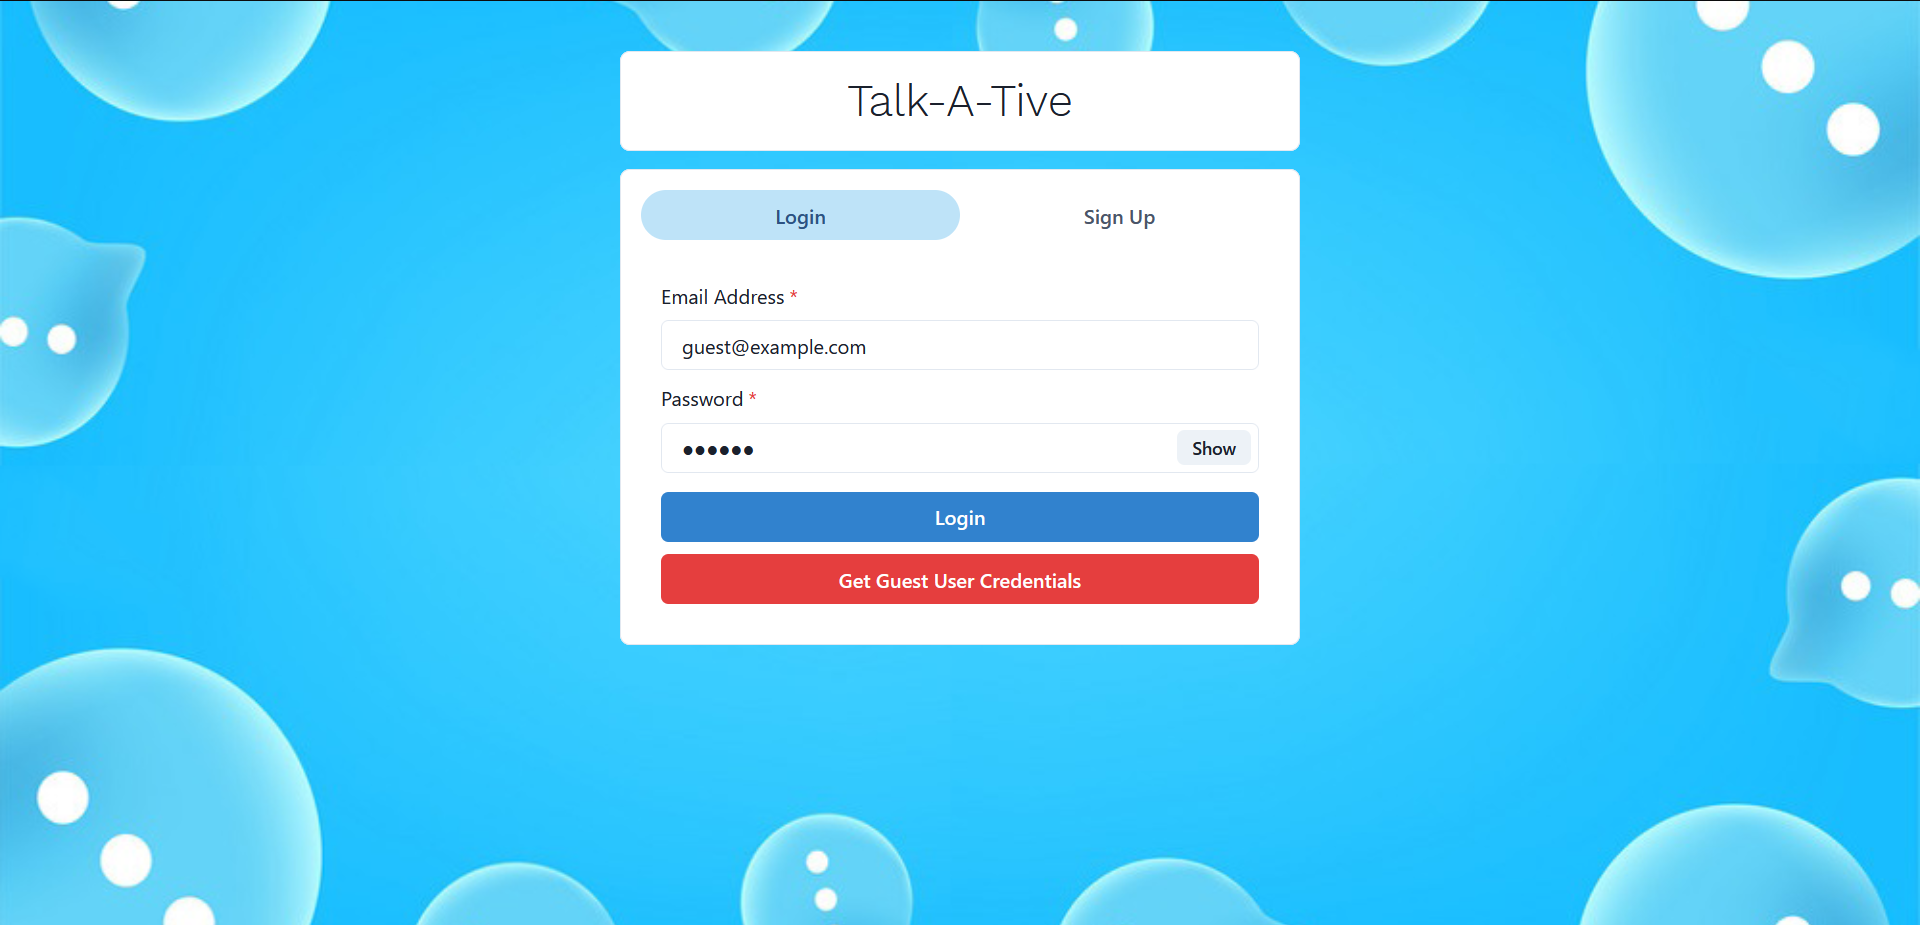
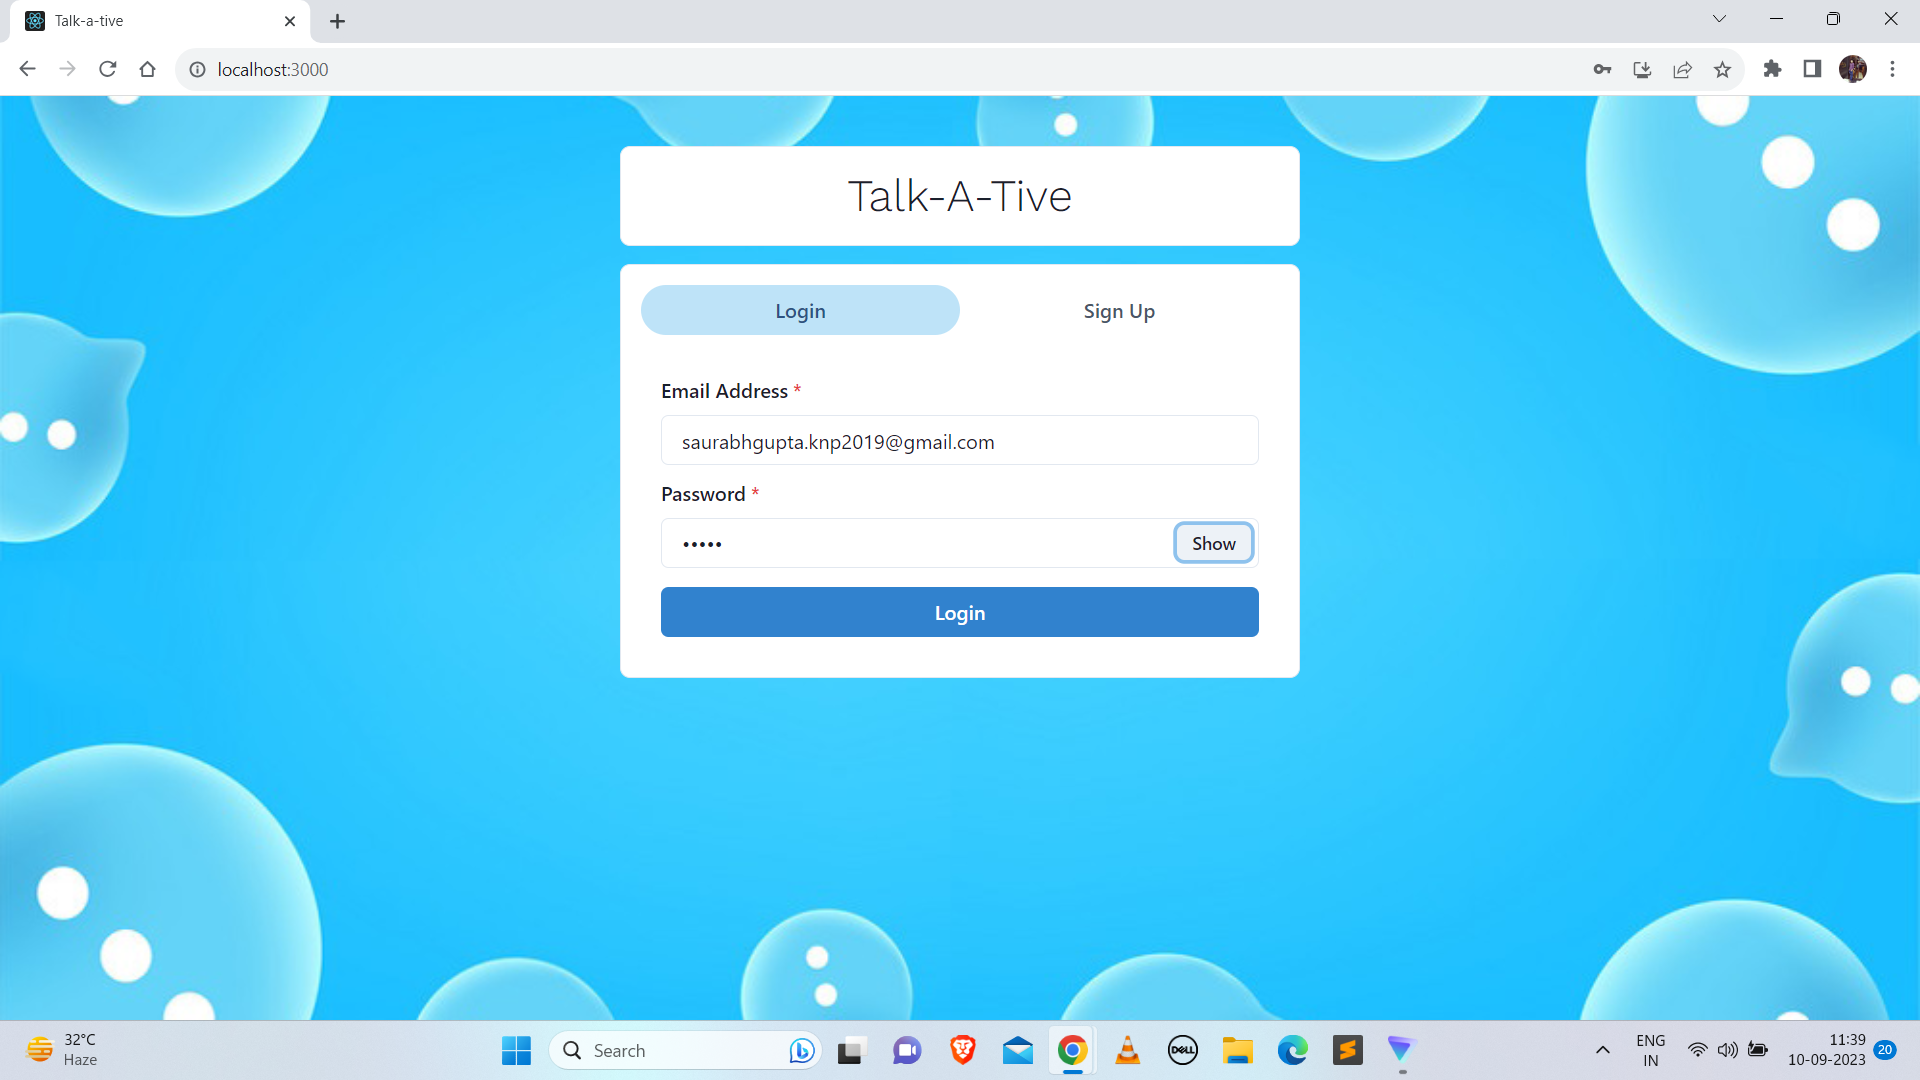
updateInApp

diff --git a/backend/server.js b/backend/server.js
@@ -12,11 +12,7 @@ dotenv.config();
 connectDB();
 const app = express();
 
-app.use(express.json()); // to accept json data
-
-// app.get("/", (req, res) => {
-//   res.send("API Running!");
-// });
+app.use(express.json());
 
 app.use("/api/user", userRoutes);
 app.use("/api/chat", chatRoutes);
@@ -41,10 +37,11 @@ if (process.env.NODE_ENV === "production") {
 // --------------------------deployment------------------------------
 
 // Error Handling middlewares
+
 app.use(notFound);
 app.use(errorHandler);
 
-const PORT = process.env.PORT;
+const PORT = process.env.PORT || 8000;
 
 const server = app.listen(
   PORT,
@@ -55,7 +52,6 @@ const io = require("socket.io")(server, {
   pingTimeout: 60000,
   cors: {
     origin: "http://localhost:3000",
-    // credentials: true,
   },
 });
 

diff --git a/backend/models/userModel.js b/backend/models/userModel.js
@@ -3,12 +3,11 @@ const bcrypt = require("bcryptjs");
 
 const userSchema = mongoose.Schema(
   {
-    name: { type: "String", required: true },
-    email: { type: "String", unique: true, required: true },
-    password: { type: "String", required: true },
+    name: { type: String, required: true },
+    email: { type: String, unique: true, required: true },
+    password: { type: String, required: true },
     pic: {
       type: "String",
-      required: true,
       default:
         "https://icon-library.com/images/anonymous-avatar-icon/anonymous-avatar-icon-25.jpg",
     },

diff --git a/backend/controllers/messageControllers.js b/backend/controllers/messageControllers.js
@@ -38,8 +38,8 @@ const sendMessage = asyncHandler(async (req, res) => {
   try {
     var message = await Message.create(newMessage);
 
-    message = await message.populate("sender", "name pic").execPopulate();
-    message = await message.populate("chat").execPopulate();
+    message = await message.populate("sender", "name pic");
+    message = await message.populate("chat");
     message = await User.populate(message, {
       path: "chat.users",
       select: "name pic email",

diff --git a/frontend/src/components/SingleChat.js b/frontend/src/components/SingleChat.js
@@ -15,7 +15,8 @@ import animationData from "../animations/typing.json";
 import io from "socket.io-client";
 import UpdateGroupChatModal from "./miscellaneous/UpdateGroupChatModal";
 import { ChatState } from "../Context/ChatProvider";
-const ENDPOINT = "http://localhost:8000"; // "https://talk-a-tive.herokuapp.com"; -> After deployment
+
+const ENDPOINT = "http://localhost:8000";
 var socket, selectedChatCompare;
 
 const SingleChat = ({ fetchAgain, setFetchAgain }) => {

diff --git a/frontend/src/components/Authentication/Signup.js b/frontend/src/components/Authentication/Signup.js
@@ -101,8 +101,8 @@ const Signup = () => {
       const data = new FormData();
       data.append("file", pics);
       data.append("upload_preset", "chat-app");
-      data.append("cloud_name", "piyushproj");
-      fetch("https://api.cloudinary.com/v1_1/piyushproj/image/upload", {
+      data.append("cloud_name", "dd2dk1sjh");
+      fetch("https://api.cloudinary.com/v1_1/dd2dk1sjh/image/upload", {
         method: "post",
         body: data,
       })

diff --git a/backend/config/db.js b/backend/config/db.js
@@ -3,11 +3,7 @@ const colors = require("colors");
 
 const connectDB = async () => {
   try {
-    const conn = await mongoose.connect(process.env.MONGO_URI, {
-      useNewUrlParser: true,
-      useUnifiedTopology: true,
-      useFindAndModify: true,
-    });
+    const conn = await mongoose.connect(process.env.MONGO_URI);
 
     console.log(`MongoDB Connected: ${conn.connection.host}`.cyan.underline);
   } catch (error) {

diff --git a/frontend/src/components/Authentication/Login.js b/frontend/src/components/Authentication/Login.js
@@ -106,17 +106,6 @@ const Login = () => {
       >
         Login
       </Button>
-      <Button
-        variant="solid"
-        colorScheme="red"
-        width="100%"
-        onClick={() => {
-          setEmail("guest@example.com");
-          setPassword("123456");
-        }}
-      >
-        Get Guest User Credentials
-      </Button>
     </VStack>
   );
 };

diff --git a/backend/middleware/errorMiddleware.js b/backend/middleware/errorMiddleware.js
@@ -8,8 +8,7 @@ const errorHandler = (err, req, res, next) => {
   const statusCode = res.statusCode === 200 ? 500 : res.statusCode;
   res.status(statusCode);
   res.json({
-    message: err.message,
-    stack: process.env.NODE_ENV === "production" ? null : err.stack,
+    message: err.message
   });
 };
 
